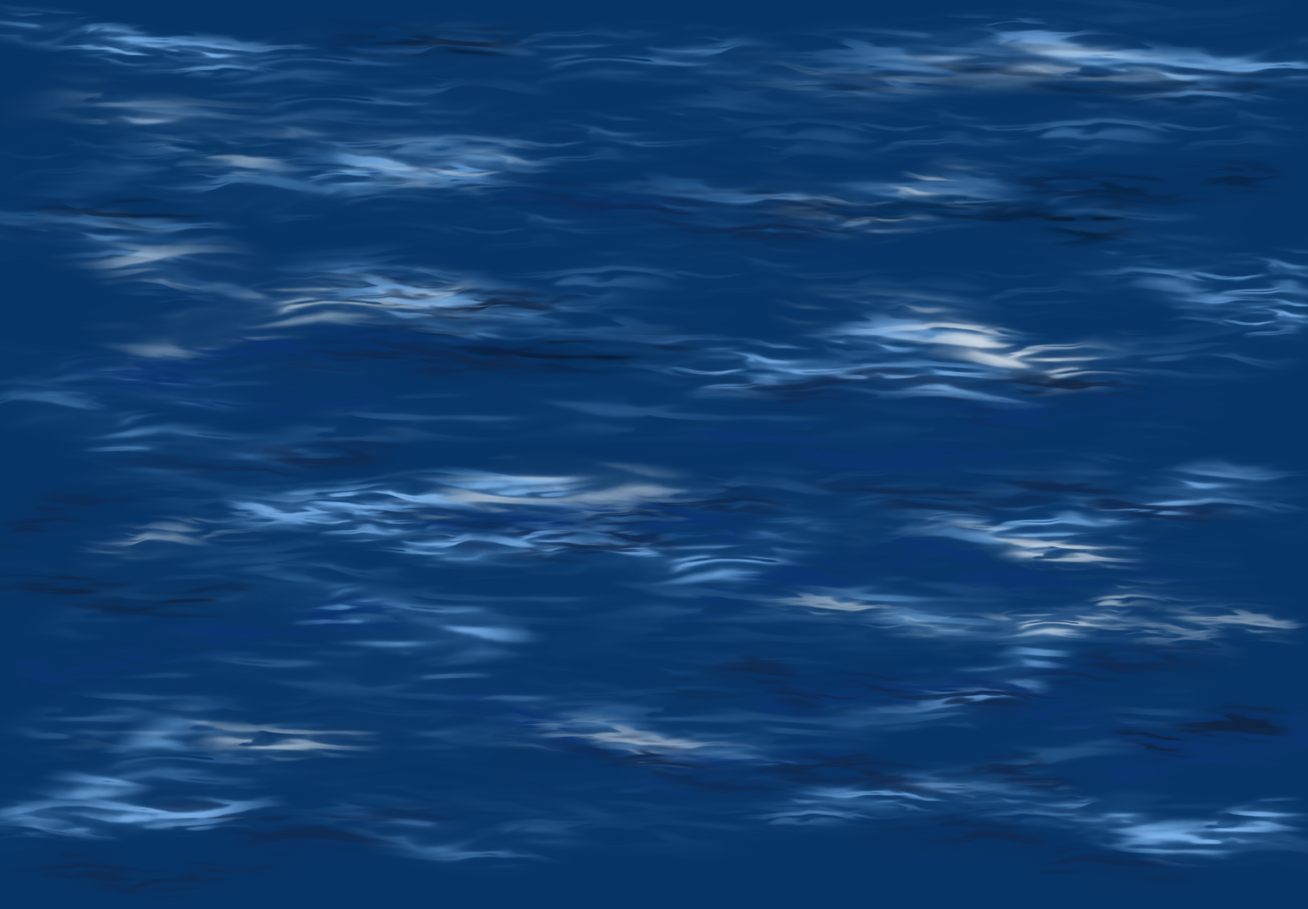
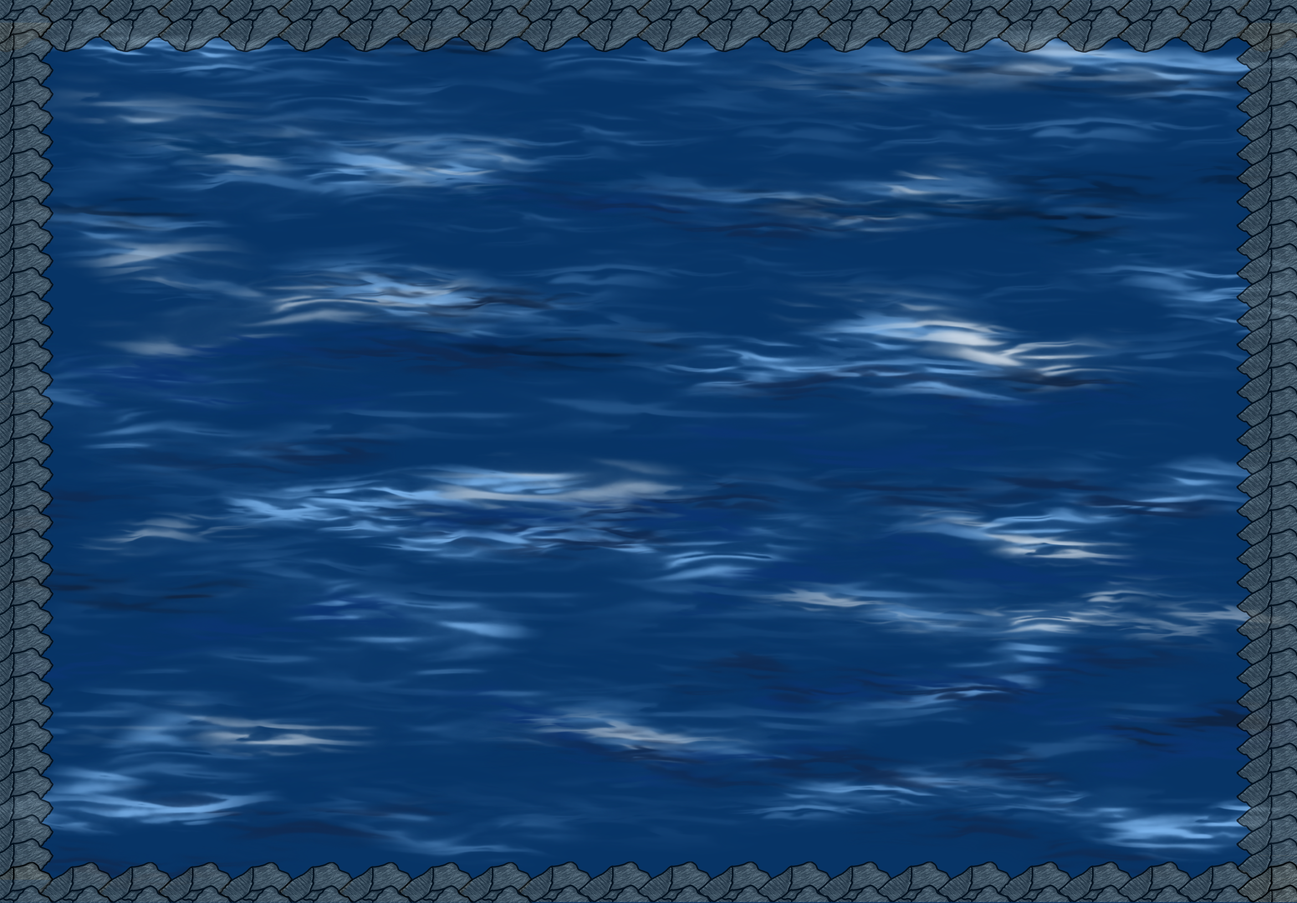
edit transition and settings background

Changed region(s): [[0.0, 0.0, 1.0, 1.0]]

diff --git a/TechnicalPrototype/core/src/edu/cornell/gdiac/raftoftheseus/WorldController.java b/TechnicalPrototype/core/src/edu/cornell/gdiac/raftoftheseus/WorldController.java
@@ -149,8 +149,8 @@ public class WorldController implements Screen, ContactListener {
     private final long startTime;
 
     private float hintTimer = 0f;
-    private float fadeTimeStart = 5f;
-    private float fadeTimeEnd = 6f;
+    private float fadeTimeStart = 6f;
+    private float fadeTimeEnd = 7.5f;
     private float fadeTimeSpan = fadeTimeEnd - fadeTimeStart;
     private boolean blockHint = false;
 
@@ -303,12 +303,12 @@ public class WorldController implements Screen, ContactListener {
         canvas.begin();
         if (complete) {
             canvas.draw(transitionScreen,  new Color(0, 0, 0, 1 - (transitionTimeEnd - transitionTimer)/transitionTimeEnd),
-                    0, 0, canvas.getWidth(), canvas.getHeight());
+                    0, 0, canvas.getWidth(), canvas.getHeight() * 1.1f);
             stage.clear();
             table.clear();
         } else {
             canvas.draw(transitionScreen,  new Color(0, 0, 0,  (transitionTimeEnd - transitionTimer)/transitionTimeEnd),
-                    0, 0, canvas.getWidth(), canvas.getHeight());
+                    0, 0, canvas.getWidth(), canvas.getHeight() * 1.1f);
         }
         canvas.end();
     }

diff --git a/TechnicalPrototype/core/src/edu/cornell/gdiac/raftoftheseus/SettingsMode.java b/TechnicalPrototype/core/src/edu/cornell/gdiac/raftoftheseus/SettingsMode.java
@@ -122,7 +122,7 @@ public class SettingsMode implements Screen, InputProcessor {
      * @param directory Reference to the asset directory
      */
     public void populate(AssetDirectory directory) {
-        background = directory.getEntry("sea_background", Texture.class);
+        background = directory.getEntry("transition_screen", Texture.class);
         goldKeyBackground = directory.getEntry("gold_key_background", Texture.class);
         blackKeyBackground = directory.getEntry("black_key_background", Texture.class);
         longTextKeyBackground = directory.getEntry("long_text_key_background", Texture.class);
